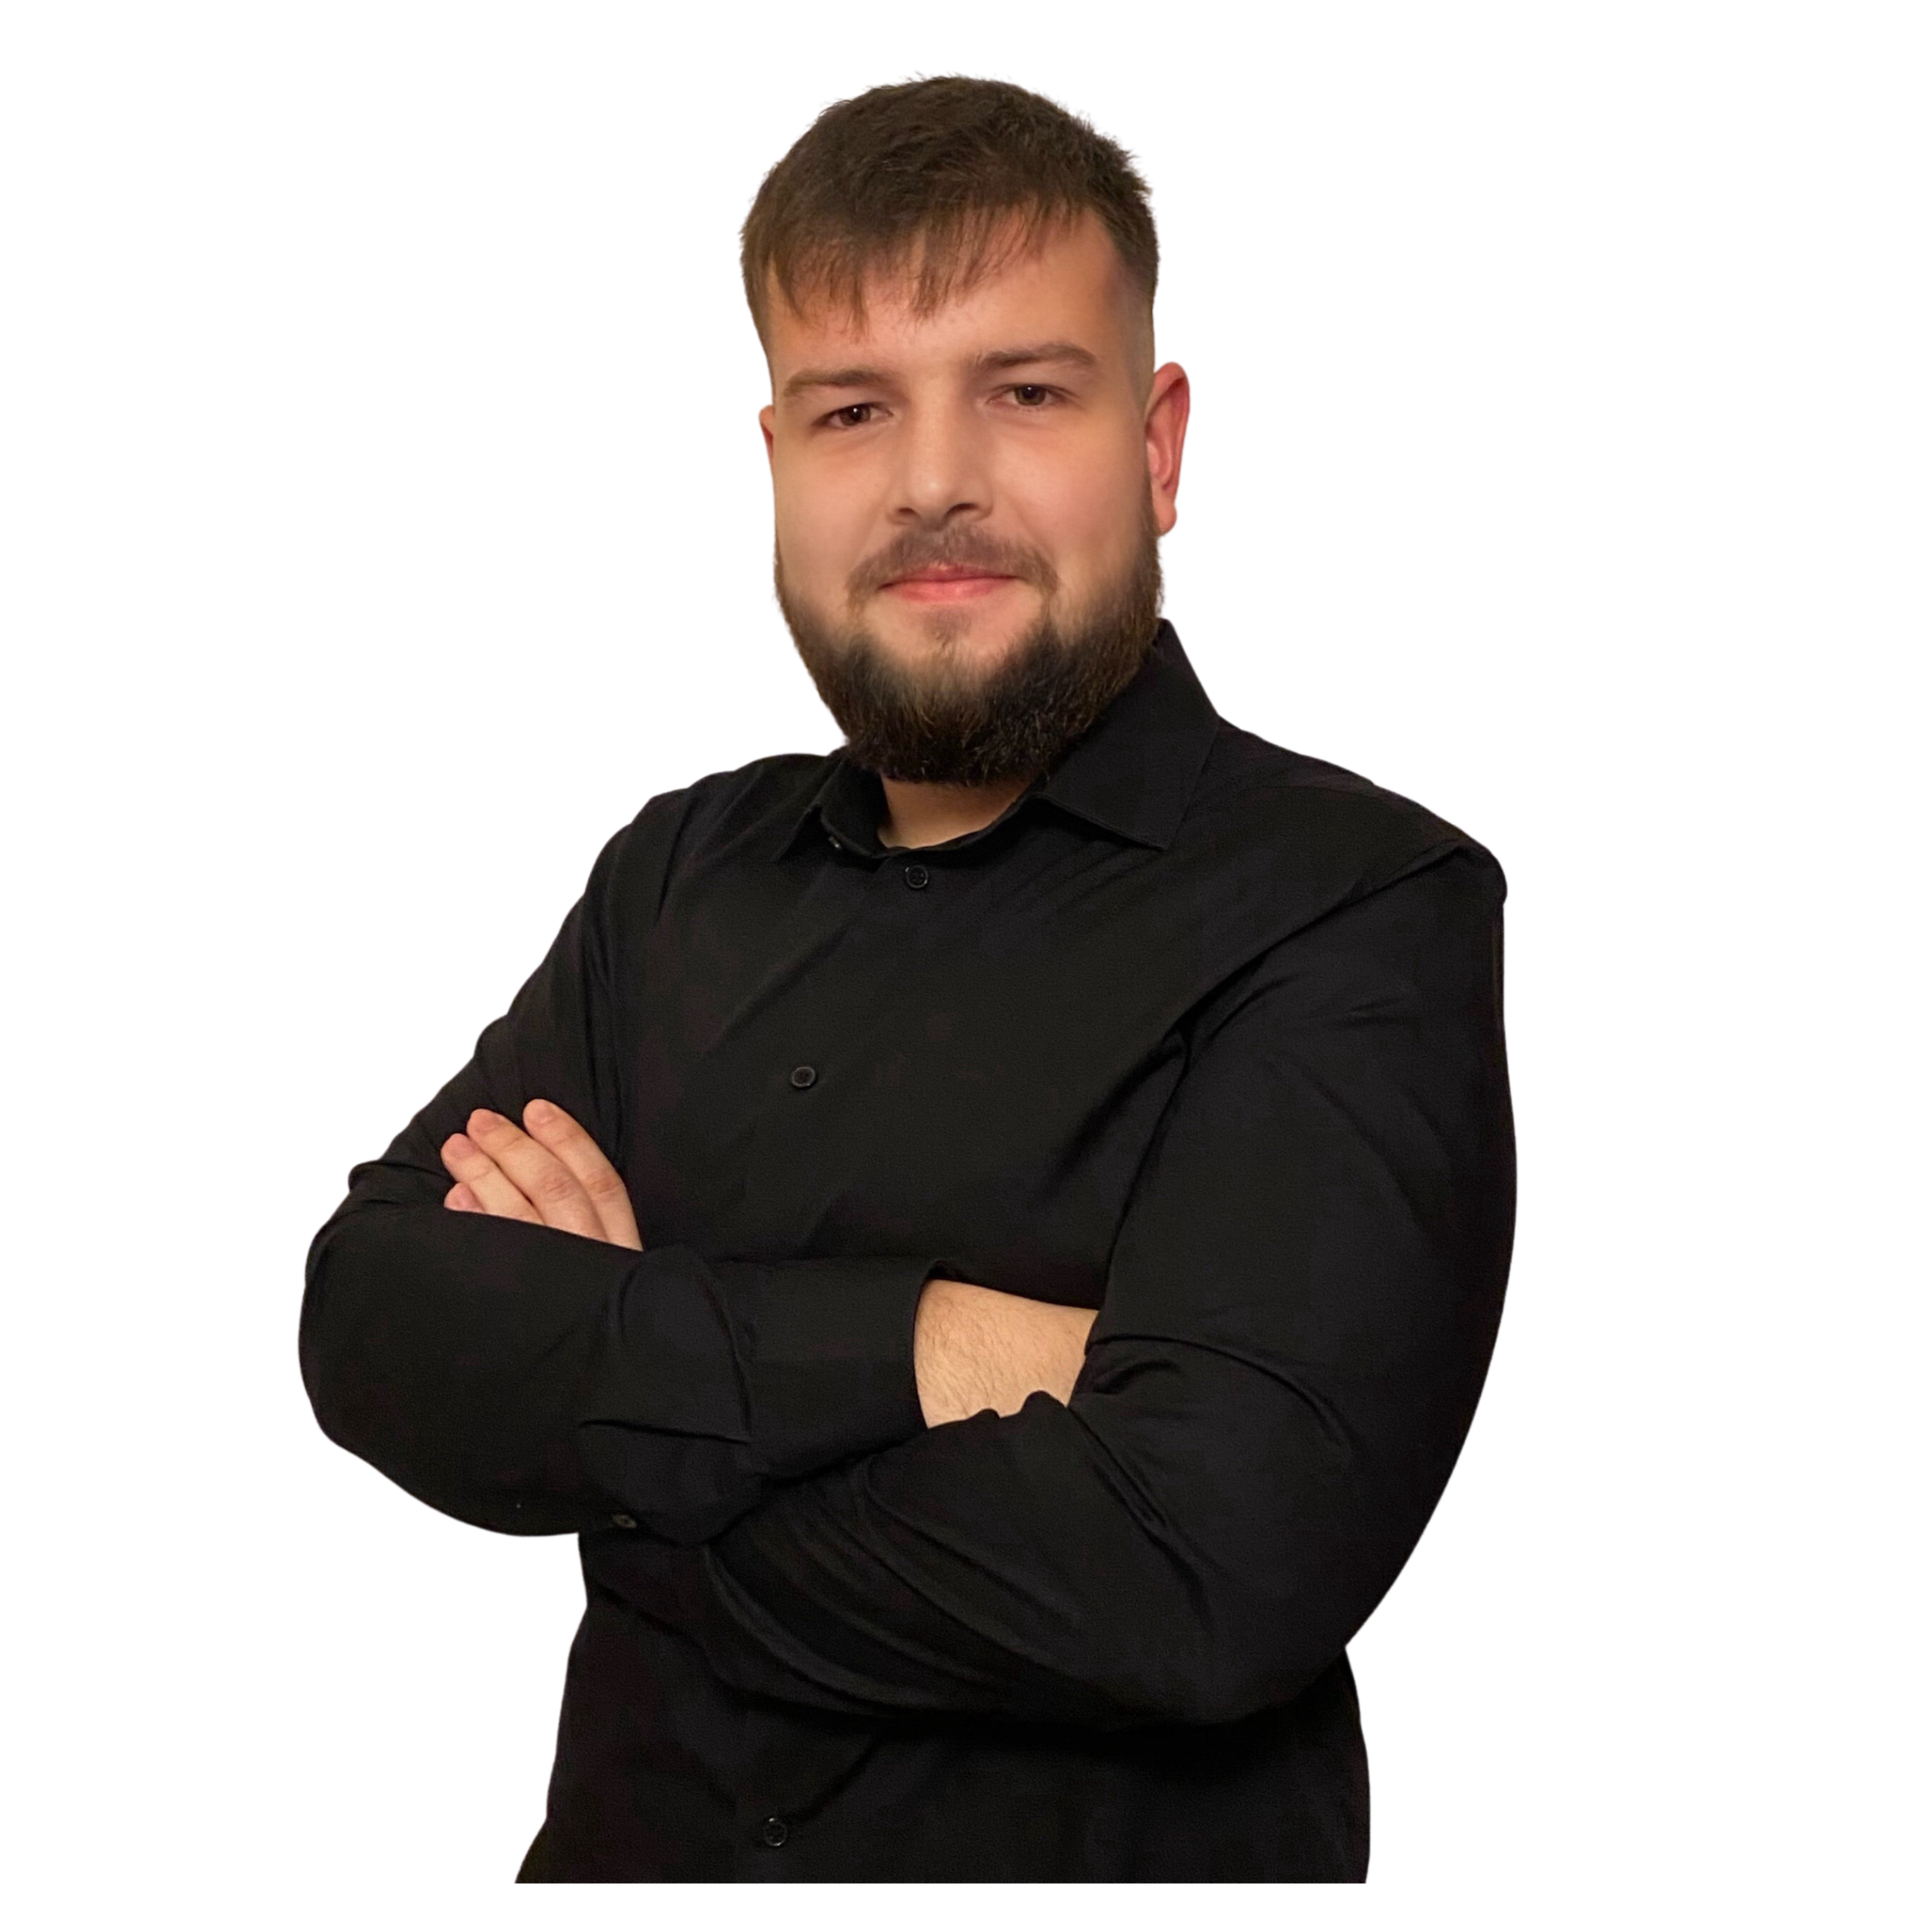
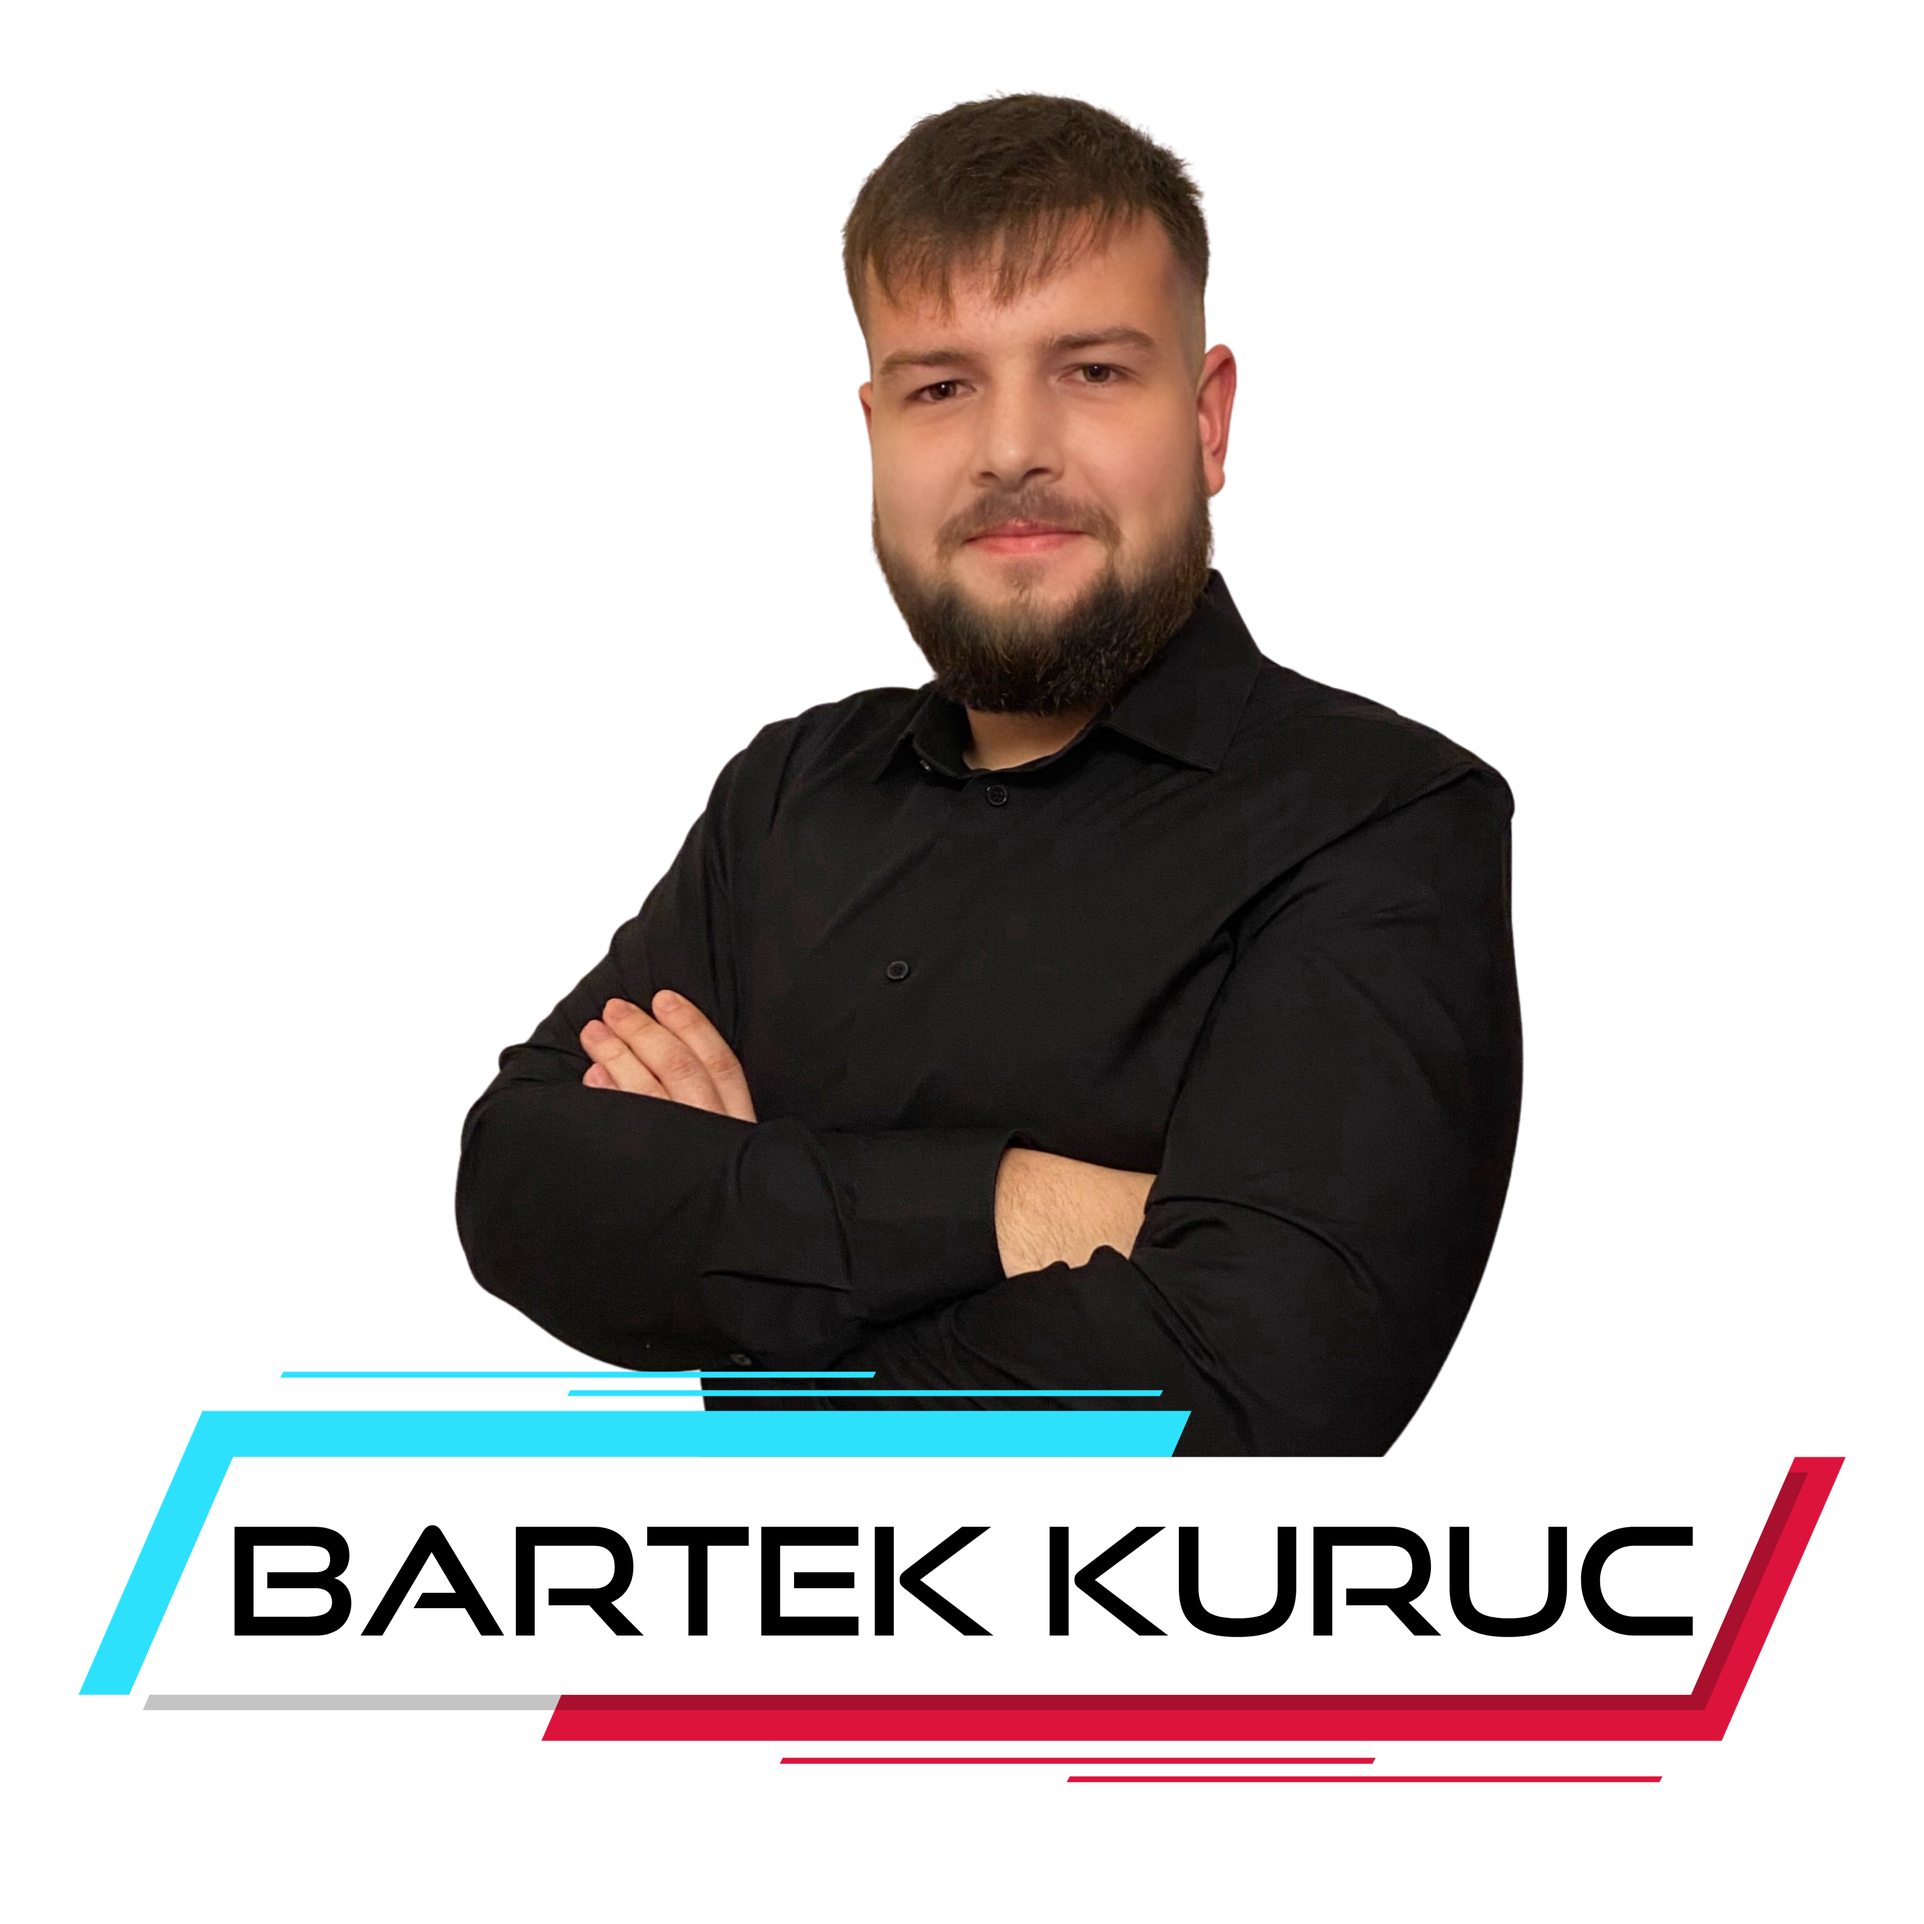
change expert photo in hero section

Changed region(s): [[0.0311, 0.0311, 0.9644, 0.9956], [0.5911, 0.4667, 0.6533, 0.56]]

diff --git a/marketing-portfolio/src/components/Hero.tsx b/marketing-portfolio/src/components/Hero.tsx
@@ -24,7 +24,7 @@ const Hero = () => {
           </header>
         </div>
         <Image
-          src="/bartosz_kuruc.png"
+          src="/bartosz_large.png"
           width={500}
           height={350}
           alt="Bartosz Kuruc"
